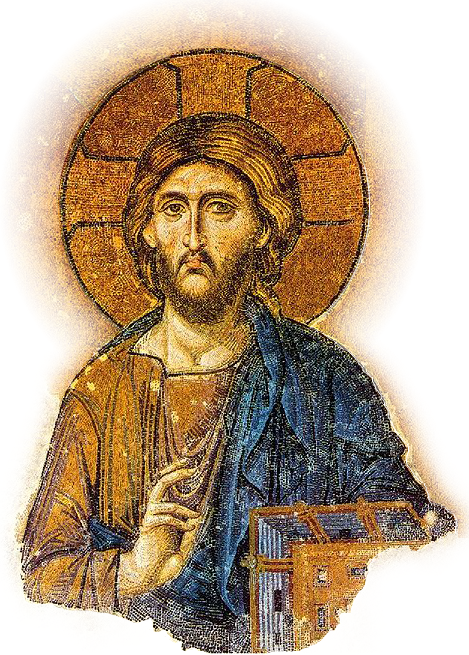
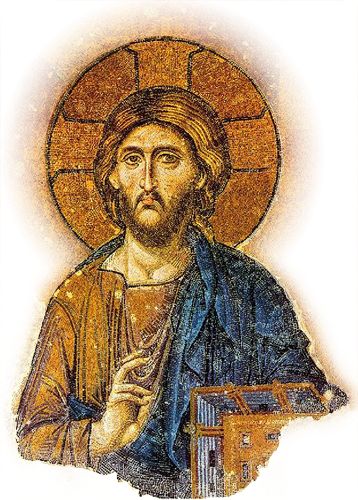
Finished the rising of christ and made the whole card loop

diff --git a/src/kb/postxmascard/PostXmasCard.java b/src/kb/postxmascard/PostXmasCard.java
@@ -18,11 +18,15 @@ import processing.core.PVector;
 public class PostXmasCard extends PApplet
 {
 	KeyDetector keyDetector;
-	Star[] stars = new Star[4];
+	Star[] stars = new Star[18];
 	Kerstboom kerstboom;
+	
 	PImage imgOfChrist;
-	boolean riseChrist = true;
-	int[] positionOfChrist = new int[2];
+	float[] positionOfChrist = new float[2];
+	double opacityOfChrist = 1.0;
+	int pauseChrist = 75;
+	int christPauseTime = 0;
+	float[] christRiseSpeed = {0,0};
 	
 	public static void main(String args[]) 
 	{
@@ -42,42 +46,11 @@ public class PostXmasCard extends PApplet
 	  // draw the christmas tree (this one is able to shoot!)
 	  kerstboom = new Kerstboom(this);
 	  
-	  // get row and column dimension based on the total number of stars
-	  // (note that any number larger than ten ending on 1, 3, 7 or 9 only
-	  // produces a single line with stars, because these numbers can't be
-	  // equally divided)
-	  int[] starsRowAndColNum = getRowAndColNumByTotal(stars.length);
-	  int starsRows = starsRowAndColNum[0];
-	  int starsCols = starsRowAndColNum[1];
-	  int curRow = -1;
-	  double skyHeight = Math.ceil(height/2f);
-	  float cellWidth = (width/starsCols);
-	  float cellHeight = (float) (skyHeight/starsRows);
-	  
-	  // fill the sky with stars!
-	  for (int i = 0; i < stars.length; i ++ ) 
-	  {
-		  // determine the current row
-		  if ( i%starsCols == 0 ) curRow++;
-		  
-		  // put stars neatly into a grid so they don't overlap
-		  float starX 		= cellWidth*(i%starsCols); 
-		  float starY 		= cellHeight*curRow;
-		  float starSize 	= random(20,35);
-		  
-		  // randomize star position within their cell
-		  starX = random(starX+(starSize/2), starX+cellWidth-(starSize/2));
-		  starY = random(starY+(starSize/2), starY+cellHeight-(starSize/2));
-		  
-		  // create star
-		  Star star = new Star(this, starX, starY, starSize, starSize, random(0,360));
-		  registerDraw(star);
-		  stars[i] = star;
-	  }
+	  drawStars();
 	  
 	  // load the pantocrator
 	  imgOfChrist = loadImage("christ-pantocrator.png");
-	  positionOfChrist[0] = -imgOfChrist.width+30;
+	  positionOfChrist[0] = 0;
 	  positionOfChrist[1] = this.height;
 	}
 
@@ -86,13 +59,49 @@ public class PostXmasCard extends PApplet
 		background(0);
 		
 		checkHits();
-	
+		
 		// draw horizon
 		this.fill(0, 128,0);
 		this.stroke(255,255,255);
 		this.rect(-2, this.height-10,this.width+3,10);
 		
 		kerstboom.display();
+	}
+	
+	protected void drawStars ()
+	{
+		// get row and column dimension based on the total number of stars
+		// (note that any number larger than ten ending on 1, 3, 7 or 9 only
+		// produces a single line with stars, because these numbers can't be
+		// equally divided)
+		int[] starsRowAndColNum = getRowAndColNumByTotal(stars.length);
+		int starsRows = starsRowAndColNum[0];
+		int starsCols = starsRowAndColNum[1];
+		int curRow = -1;
+		double skyHeight = Math.ceil(height/2f);
+		float cellWidth = (width/starsCols);
+		float cellHeight = (float) (skyHeight/starsRows);
+		  
+		// fill the sky with stars!
+		for (int i = 0; i < stars.length; i ++ ) 
+		{
+			// determine the current row
+			if ( i%starsCols == 0 ) curRow++;
+			  
+			// put stars neatly into a grid so they don't overlap
+			float starX 	= cellWidth*(i%starsCols); 
+			float starY 	= cellHeight*curRow;
+			float starSize 	= random(20,35);
+			  
+			// randomize star position within their cell
+			starX = random(starX+(starSize/2), starX+cellWidth-(starSize/2));
+			starY = random(starY+(starSize/2), starY+cellHeight-(starSize/2));
+			  
+			// create star
+			Star star = new Star(this, starX, starY, starSize, starSize, random(0,360));
+			registerDraw(star);
+			stars[i] = star;
+		}
 	}
 	
 	protected void checkHits ()
@@ -183,25 +192,66 @@ public class PostXmasCard extends PApplet
 			}
 		}
 		
-		if (invisibleStars >= stars.length && riseChrist)
-		{
-			//System.out.print( "SHOW END!!!" );
+		if (invisibleStars >= stars.length)
 			theRiseOfChrist();
-		}
 	}
 	
 	protected void theRiseOfChrist ()
 	{
-		image(imgOfChrist, positionOfChrist[0], positionOfChrist[1], 358, 500);
+		float targetX = 0;
+		float targetY = -10;
 		
-		if (positionOfChrist[1] > -10)
+		float dx = targetX-positionOfChrist[0];
+		float dy = targetY-positionOfChrist[1];
+		
+		int steps = 1000;
+		
+		if ( christRiseSpeed[0] == 0 ) 
+			christRiseSpeed[0] = dx/steps;
+		
+		if ( christRiseSpeed[1] == 0 ) 
+			christRiseSpeed[1] = dy/steps;
+		
+		// update position
+		if (abs(dx) > 1) positionOfChrist[0] += christRiseSpeed[0];
+		if (abs(dy) > 1) positionOfChrist[1] += christRiseSpeed[1];
+		
+		// rise christ
+		if (abs(dx) > 1 || abs(dy) > 1)
 		{
-			positionOfChrist[0] += 1;
-			positionOfChrist[1] -= 1;
+			tint(255, (float)opacityOfChrist*255f);
+			image(imgOfChrist, positionOfChrist[0], positionOfChrist[1]);
 		}
-		//endpoint: image(imgOfChrist, 30, -10, 358, 500);
 		
-		//riseChrist = false;
+		// fade christ
+		else
+		{
+			if ( christPauseTime >= pauseChrist )
+			{
+				tint(255, (float)opacityOfChrist*255f);
+				image(imgOfChrist, positionOfChrist[0], positionOfChrist[1]);
+				noTint();
+				opacityOfChrist -= 0.01;
+				
+				if (opacityOfChrist < 0.01) reset();
+			}
+			else {
+				image(imgOfChrist, positionOfChrist[0], positionOfChrist[1]);
+				christPauseTime++;
+			}
+		}
+	}
+	
+	protected void reset() 
+	{
+		christPauseTime = 0;
+		opacityOfChrist = 1;
+		positionOfChrist = new float[2];
+		positionOfChrist[0] = 0;
+		positionOfChrist[1] = this.height;
+		
+		stars = new Star[stars.length];
+		drawStars();
 	}
 	
 	/**

diff --git a/src/kb/postxmascard/Kerstboom.java b/src/kb/postxmascard/Kerstboom.java
@@ -53,7 +53,10 @@ public class Kerstboom
 	public void display() 
 	{
 		drawTree();
-    
+		
+		// make sure the image will be full opaque
+		//app.tint(255);
+		
 		// handle key presses
 		if (app.keyDetector.keyPressed()) 
 		{
@@ -63,6 +66,7 @@ public class Kerstboom
 				if (app.keyDetector.keyPressed(app.ENTER)
 					|| app.keyDetector.keyPressed(32)) 
 				{
+					//app.tint(255,255);
 					app.image(fire, x-17, app.height-123);
 					
 					Bullet bullet = new Bullet(app, x, app.height-100, 9);
@@ -76,7 +80,10 @@ public class Kerstboom
 			else
 			{
 				prevShot++;
-				if (prevShot < 3) app.image(fire, x-17, app.height-123);
+				if (prevShot < 3) {
+					//app.tint(255,255);
+					app.image(fire, x-17, app.height-123);
+				}
 				if (prevShot == shotPause)
 				{
 					isShooting = false;
